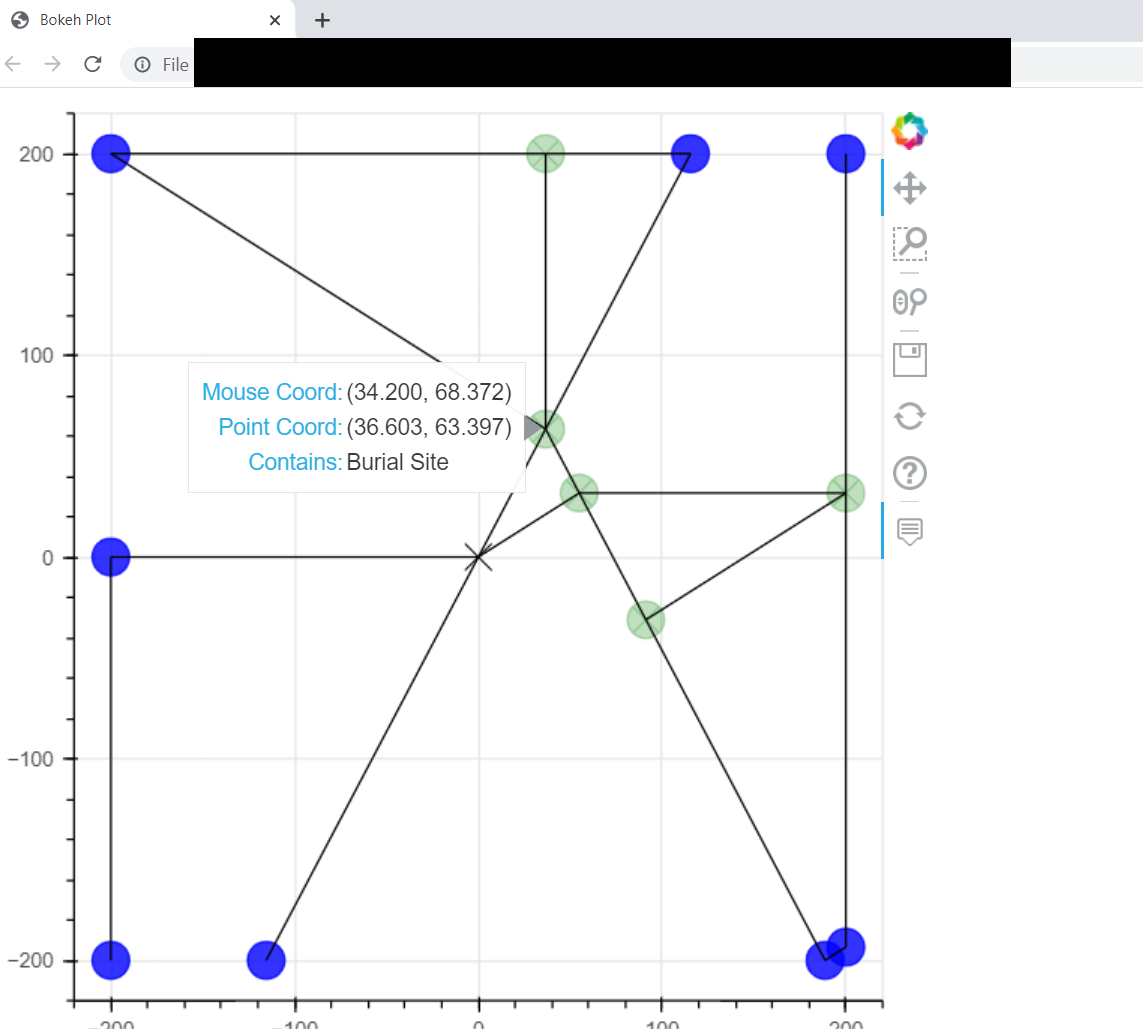
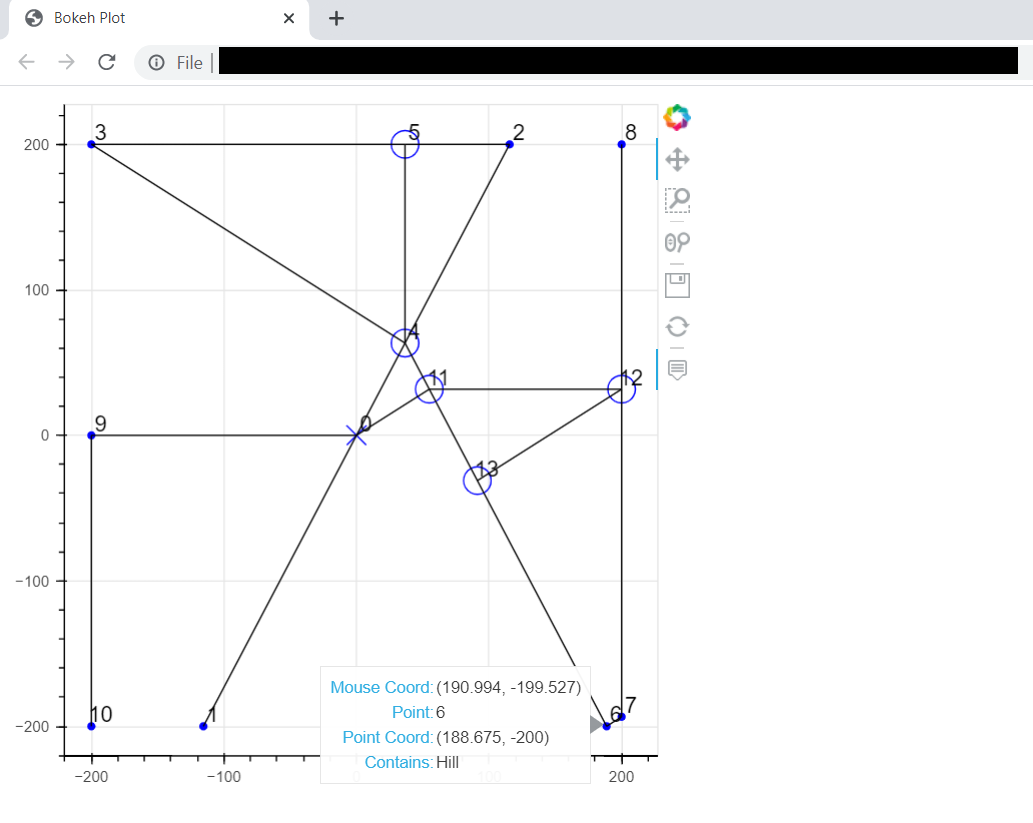
Bokeh Updates

diff --git a/dodman.html b/dodman.html
@@ -632,14 +632,14 @@
           
           
             
-              <div class="bk-root" id="40c20497-5f15-4a16-af1b-636875379bb5" data-root-id="1002"></div>
+              <div class="bk-root" id="97f7be06-1d06-4231-8511-56fcda432627" data-root-id="4930"></div>
             
           
         
       
       
-        <script type="application/json" id="1228">
-          {"8ea5ce9b-f5c2-4c90-a379-6df4f6e53931":{"defs":[{"extends":null,"module":null,"name":"DataModel","overrides":[],"properties":[]}],"roots":{"references":[{"attributes":{"data_source":{"id":"1041"},"glyph":{"id":"1043"},"hover_glyph":null,"muted_glyph":null,"nonselection_glyph":{"id":"1044"},"view":{"id":"1046"}},"id":"1045","type":"GlyphRenderer"},{"attributes":{"data_source":{"id":"1047"},"glyph":{"id":"1049"},"hover_glyph":null,"muted_glyph":null,"nonselection_glyph":{"id":"1050"},"view":{"id":"1052"}},"id":"1051","type":"GlyphRenderer"},{"attributes":{"data":{"desc":["Burial Site","Unique Hazard","Burial Site","Site of Corruption","Site of Corruption"],"x":[36.60254037844385,36.60254037844385,54.903810567665694,200.0,91.17785792574917],"y":[63.39745962155598,200.0,31.698729810778,31.698729810778,-31.129763209582368]},"selected":{"id":"1068"},"selection_policy":{"id":"1069"}},"id":"1041","type":"ColumnDataSource"},{"attributes":{},"id":"1058","type":"Title"},{"attributes":{"source":{"id":"1035"}},"id":"1040","type":"CDSView"},{"attributes":{},"id":"1066","type":"Selection"},{"attributes":{},"id":"1060","type":"BasicTickFormatter"},{"attributes":{"fill_color":{"value":"black"},"marker":{"value":"x"},"size":{"value":20},"x":{"field":"x"},"y":{"field":"y"}},"id":"1049","type":"Scatter"},{"attributes":{"below":[{"id":"1011"}],"center":[{"id":"1014"},{"id":"1018"}],"height":500,"left":[{"id":"1015"}],"renderers":[{"id":"1039"},{"id":"1045"},{"id":"1051"},{"id":"1056"}],"title":{"id":"1058"},"toolbar":{"id":"1027"},"width":500,"x_range":{"id":"1003"},"x_scale":{"id":"1007"},"y_range":{"id":"1005"},"y_scale":{"id":"1009"}},"id":"1002","subtype":"Figure","type":"Plot"},{"attributes":{},"id":"1071","type":"UnionRenderers"},{"attributes":{"data":{"desc":["Site of Imprisonment","Depression","Depression","Hill","Cursed Building","Valley","Hill","Impassable Expanse"],"x":[-115.47005383792528,115.4700538379252,-200.0,188.6751345948125,200.0,200.0,-200.0,-200.0],"y":[-200.0,200.0,200.0,-200.0,-193.46158590977876,200.0,0.0,-200.0]},"selected":{"id":"1066"},"selection_policy":{"id":"1067"}},"id":"1035","type":"ColumnDataSource"},{"attributes":{"source":{"id":"1047"}},"id":"1052","type":"CDSView"},{"attributes":{},"id":"1067","type":"UnionRenderers"},{"attributes":{"source":{"id":"1053"}},"id":"1057","type":"CDSView"},{"attributes":{"bottom_units":"screen","fill_alpha":0.5,"fill_color":"lightgrey","left_units":"screen","level":"overlay","line_alpha":1.0,"line_color":"black","line_dash":[4,4],"line_width":2,"right_units":"screen","syncable":false,"top_units":"screen"},"id":"1025","type":"BoxAnnotation"},{"attributes":{"active_multi":null,"tools":[{"id":"1019"},{"id":"1020"},{"id":"1021"},{"id":"1022"},{"id":"1023"},{"id":"1024"},{"id":"1026"}]},"id":"1027","type":"Toolbar"},{"attributes":{},"id":"1007","type":"LinearScale"},{"attributes":{},"id":"1063","type":"BasicTickFormatter"},{"attributes":{"fill_alpha":{"value":0.1},"fill_color":{"value":"black"},"line_alpha":{"value":0.1},"marker":{"value":"x"},"size":{"value":20},"x":{"field":"x"},"y":{"field":"y"}},"id":"1050","type":"Scatter"},{"attributes":{},"id":"1005","type":"DataRange1d"},{"attributes":{},"id":"1019","type":"PanTool"},{"attributes":{},"id":"1023","type":"ResetTool"},{"attributes":{},"id":"1062","type":"AllLabels"},{"attributes":{},"id":"1020","type":"WheelZoomTool"},{"attributes":{"overlay":{"id":"1025"}},"id":"1021","type":"BoxZoomTool"},{"attributes":{"callback":null,"tooltips":[["Mouse Coord","($x, $y)"],["Point Coord","(@x, @y)"],["Contains","@desc"]]},"id":"1026","type":"HoverTool"},{"attributes":{},"id":"1069","type":"UnionRenderers"},{"attributes":{},"id":"1073","type":"UnionRenderers"},{"attributes":{},"id":"1022","type":"SaveTool"},{"attributes":{"formatter":{"id":"1060"},"major_label_policy":{"id":"1062"},"ticker":{"id":"1012"}},"id":"1011","type":"LinearAxis"},{"attributes":{},"id":"1065","type":"AllLabels"},{"attributes":{"data":{"desc":["Start"],"x":[0.0],"y":[0.0]},"selected":{"id":"1070"},"selection_policy":{"id":"1071"}},"id":"1047","type":"ColumnDataSource"},{"attributes":{"data":{"xs":[[0.0,-115.47005383792528],[0.0,36.60254037844385],[115.4700538379252,36.60254037844385],[36.60254037844385,115.4700538379252],[-200.0,36.60254037844385],[36.60254037844385,-200.0],[36.60254037844385,36.60254037844385],[36.60254037844385,54.903810567665694],[188.6751345948125,200.0],[200.0,200.0],[0.0,-200.0],[-200.0,-200.0],[54.903810567665694,91.17785792574917],[0.0,54.903810567665694],[200.0,200.0],[54.903810567665694,200.0],[91.17785792574917,188.6751345948125],[200.0,91.17785792574917]],"ys":[[0.0,-200.0],[0.0,63.39745962155598],[200.0,200.0],[63.39745962155598,200.0],[200.0,63.39745962155598],[200.0,200.0],[63.39745962155598,200.0],[63.39745962155598,31.698729810778],[-200.0,-193.46158590977876],[-193.46158590977876,31.698729810778],[0.0,0.0],[0.0,-200.0],[31.698729810778,-31.129763209582368],[0.0,31.698729810778],[31.698729810778,200.0],[31.698729810778,31.698729810778],[-31.129763209582368,-200.0],[31.698729810778,-31.129763209582368]]},"selected":{"id":"1072"},"selection_policy":{"id":"1073"}},"id":"1053","type":"ColumnDataSource"},{"attributes":{},"id":"1024","type":"HelpTool"},{"attributes":{},"id":"1009","type":"LinearScale"},{"attributes":{},"id":"1070","type":"Selection"},{"attributes":{},"id":"1012","type":"BasicTicker"},{"attributes":{"source":{"id":"1041"}},"id":"1046","type":"CDSView"},{"attributes":{"fill_alpha":{"value":0.25},"fill_color":{"value":"green"},"line_alpha":{"value":0.25},"line_color":{"value":"green"},"marker":{"value":"circle_x"},"size":{"value":20},"x":{"field":"x"},"y":{"field":"y"}},"id":"1043","type":"Scatter"},{"attributes":{},"id":"1068","type":"Selection"},{"attributes":{},"id":"1072","type":"Selection"},{"attributes":{},"id":"1003","type":"DataRange1d"},{"attributes":{"xs":{"field":"xs"},"ys":{"field":"ys"}},"id":"1054","type":"MultiLine"},{"attributes":{"axis":{"id":"1011"},"ticker":null},"id":"1014","type":"Grid"},{"attributes":{"formatter":{"id":"1063"},"major_label_policy":{"id":"1065"},"ticker":{"id":"1016"}},"id":"1015","type":"LinearAxis"},{"attributes":{"fill_alpha":{"value":0.8},"fill_color":{"value":"blue"},"line_alpha":{"value":0.8},"line_color":{"value":"blue"},"size":{"value":20},"x":{"field":"x"},"y":{"field":"y"}},"id":"1037","type":"Circle"},{"attributes":{"fill_alpha":{"value":0.1},"fill_color":{"value":"green"},"line_alpha":{"value":0.1},"line_color":{"value":"green"},"marker":{"value":"circle_x"},"size":{"value":20},"x":{"field":"x"},"y":{"field":"y"}},"id":"1044","type":"Scatter"},{"attributes":{"line_alpha":{"value":0.1},"xs":{"field":"xs"},"ys":{"field":"ys"}},"id":"1055","type":"MultiLine"},{"attributes":{},"id":"1016","type":"BasicTicker"},{"attributes":{"axis":{"id":"1015"},"dimension":1,"ticker":null},"id":"1018","type":"Grid"},{"attributes":{"data_source":{"id":"1053"},"glyph":{"id":"1054"},"hover_glyph":null,"muted_glyph":null,"nonselection_glyph":{"id":"1055"},"view":{"id":"1057"}},"id":"1056","type":"GlyphRenderer"},{"attributes":{"fill_alpha":{"value":0.1},"fill_color":{"value":"blue"},"line_alpha":{"value":0.1},"line_color":{"value":"blue"},"size":{"value":20},"x":{"field":"x"},"y":{"field":"y"}},"id":"1038","type":"Circle"},{"attributes":{"data_source":{"id":"1035"},"glyph":{"id":"1037"},"hover_glyph":null,"muted_glyph":null,"nonselection_glyph":{"id":"1038"},"view":{"id":"1040"}},"id":"1039","type":"GlyphRenderer"}],"root_ids":["1002"]},"title":"Bokeh Application","version":"2.3.0"}}
+        <script type="application/json" id="5228">
+          {"0725f36e-46de-4014-ad89-2d2ecc8c2931":{"defs":[{"extends":null,"module":null,"name":"DataModel","overrides":[],"properties":[]}],"roots":{"references":[{"attributes":{},"id":"4940","type":"BasicTicker"},{"attributes":{"text_align":{"value":"center"},"text_alpha":{"value":0.1},"text_baseline":{"value":"middle"},"text_color":{"value":"black"},"x":{"field":"x"},"y":{"field":"y"}},"id":"4968","type":"Text"},{"attributes":{},"id":"5006","type":"Selection"},{"attributes":{},"id":"5012","type":"Selection"},{"attributes":{"data_source":{"id":"4971"},"glyph":{"id":"4973"},"hover_glyph":null,"muted_glyph":null,"name":"intersection_point","nonselection_glyph":{"id":"4974"},"view":{"id":"4976"}},"id":"4975","type":"GlyphRenderer"},{"attributes":{"source":{"id":"4977"}},"id":"4981","type":"CDSView"},{"attributes":{},"id":"5019","type":"UnionRenderers"},{"attributes":{"fill_alpha":{"value":0.1},"fill_color":{"value":"blue"},"line_alpha":{"value":0.1},"line_color":{"value":"blue"},"marker":{"value":"x"},"size":{"value":20},"x":{"field":"x"},"y":{"field":"y"}},"id":"4985","type":"Scatter"},{"attributes":{},"id":"5011","type":"UnionRenderers"},{"attributes":{},"id":"4951","type":"ResetTool"},{"attributes":{},"id":"4944","type":"BasicTicker"},{"attributes":{},"id":"5014","type":"Selection"},{"attributes":{},"id":"5000","type":"BasicTickFormatter"},{"attributes":{"source":{"id":"4966"}},"id":"4970","type":"CDSView"},{"attributes":{},"id":"4937","type":"LinearScale"},{"attributes":{},"id":"5002","type":"AllLabels"},{"attributes":{"formatter":{"id":"5003"},"major_label_policy":{"id":"5005"},"ticker":{"id":"4944"}},"id":"4943","type":"LinearAxis"},{"attributes":{},"id":"4998","type":"Title"},{"attributes":{"below":[{"id":"4939"}],"center":[{"id":"4942"},{"id":"4946"}],"height":500,"left":[{"id":"4943"}],"renderers":[{"id":"4964"},{"id":"4969"},{"id":"4975"},{"id":"4980"},{"id":"4986"},{"id":"4991"},{"id":"4996"}],"title":{"id":"4998"},"toolbar":{"id":"4953"},"width":500,"x_range":{"id":"4931"},"x_scale":{"id":"4935"},"y_range":{"id":"4933"},"y_scale":{"id":"4937"}},"id":"4930","subtype":"Figure","type":"Plot"},{"attributes":{"source":{"id":"4971"}},"id":"4976","type":"CDSView"},{"attributes":{"data_source":{"id":"4960"},"glyph":{"id":"4962"},"hover_glyph":null,"muted_glyph":null,"name":"node_n_termini_point","nonselection_glyph":{"id":"4963"},"view":{"id":"4965"}},"id":"4964","type":"GlyphRenderer"},{"attributes":{},"id":"5008","type":"Selection"},{"attributes":{"data_source":{"id":"4993"},"glyph":{"id":"4994"},"hover_glyph":null,"muted_glyph":null,"nonselection_glyph":{"id":"4995"},"view":{"id":"4997"}},"id":"4996","type":"GlyphRenderer"},{"attributes":{"fill_color":{"value":"blue"},"line_color":{"value":"blue"},"marker":{"value":"x"},"size":{"value":20},"x":{"field":"x"},"y":{"field":"y"}},"id":"4984","type":"Scatter"},{"attributes":{"callback":null,"names":["node_n_termini_point","intersection_point","start_point"],"tooltips":[["Mouse Coord","($x, $y)"],["Point","@point_no"],["Point Coord","(@x, @y)"],["Contains","@desc"]]},"id":"4929","type":"HoverTool"},{"attributes":{},"id":"4950","type":"SaveTool"},{"attributes":{"data_source":{"id":"4977"},"glyph":{"id":"4978"},"hover_glyph":null,"muted_glyph":null,"nonselection_glyph":{"id":"4979"},"view":{"id":"4981"}},"id":"4980","type":"GlyphRenderer"},{"attributes":{"fill_alpha":{"value":0},"fill_color":{"value":"blue"},"line_color":{"value":"blue"},"size":{"value":20},"x":{"field":"x"},"y":{"field":"y"}},"id":"4973","type":"Circle"},{"attributes":{"data_source":{"id":"4982"},"glyph":{"id":"4984"},"hover_glyph":null,"muted_glyph":null,"name":"start_point","nonselection_glyph":{"id":"4985"},"view":{"id":"4987"}},"id":"4986","type":"GlyphRenderer"},{"attributes":{},"id":"5003","type":"BasicTickFormatter"},{"attributes":{},"id":"5015","type":"UnionRenderers"},{"attributes":{},"id":"5005","type":"AllLabels"},{"attributes":{},"id":"4935","type":"LinearScale"},{"attributes":{"fill_alpha":{"value":0.1},"fill_color":{"value":"blue"},"line_alpha":{"value":0.1},"line_color":{"value":"blue"},"size":{"value":20},"x":{"field":"x"},"y":{"field":"y"}},"id":"4974","type":"Circle"},{"attributes":{"data":{"text":["0"],"x":[7.0],"y":[7.0]},"selected":{"id":"5016"},"selection_policy":{"id":"5017"}},"id":"4988","type":"ColumnDataSource"},{"attributes":{"formatter":{"id":"5000"},"major_label_policy":{"id":"5002"},"ticker":{"id":"4940"}},"id":"4939","type":"LinearAxis"},{"attributes":{"fill_color":{"value":"blue"},"line_color":{"value":"blue"},"size":{"value":5},"x":{"field":"x"},"y":{"field":"y"}},"id":"4962","type":"Circle"},{"attributes":{"text_align":{"value":"center"},"text_baseline":{"value":"middle"},"text_color":{"value":"black"},"x":{"field":"x"},"y":{"field":"y"}},"id":"4989","type":"Text"},{"attributes":{},"id":"5010","type":"Selection"},{"attributes":{"text_align":{"value":"center"},"text_baseline":{"value":"middle"},"text_color":{"value":"black"},"x":{"field":"x"},"y":{"field":"y"}},"id":"4967","type":"Text"},{"attributes":{"text_align":{"value":"center"},"text_alpha":{"value":0.1},"text_baseline":{"value":"middle"},"text_color":{"value":"black"},"x":{"field":"x"},"y":{"field":"y"}},"id":"4979","type":"Text"},{"attributes":{"source":{"id":"4988"}},"id":"4992","type":"CDSView"},{"attributes":{},"id":"4947","type":"PanTool"},{"attributes":{"active_multi":null,"tools":[{"id":"4929"},{"id":"4947"},{"id":"4948"},{"id":"4949"},{"id":"4950"},{"id":"4951"}]},"id":"4953","type":"Toolbar"},{"attributes":{"overlay":{"id":"4952"}},"id":"4948","type":"BoxZoomTool"},{"attributes":{"data":{"text":["4","5","11","12","13"],"x":[43.60254037844385,43.60254037844385,61.903810567665694,207.0,98.17785792574917],"y":[70.39745962155598,207.0,38.698729810778005,38.698729810778005,-24.129763209582368]},"selected":{"id":"5012"},"selection_policy":{"id":"5013"}},"id":"4977","type":"ColumnDataSource"},{"attributes":{"source":{"id":"4960"}},"id":"4965","type":"CDSView"},{"attributes":{"source":{"id":"4993"}},"id":"4997","type":"CDSView"},{"attributes":{},"id":"5017","type":"UnionRenderers"},{"attributes":{"fill_alpha":{"value":0.1},"fill_color":{"value":"blue"},"line_alpha":{"value":0.1},"line_color":{"value":"blue"},"size":{"value":5},"x":{"field":"x"},"y":{"field":"y"}},"id":"4963","type":"Circle"},{"attributes":{},"id":"4933","type":"DataRange1d"},{"attributes":{"data_source":{"id":"4966"},"glyph":{"id":"4967"},"hover_glyph":null,"muted_glyph":null,"nonselection_glyph":{"id":"4968"},"view":{"id":"4970"}},"id":"4969","type":"GlyphRenderer"},{"attributes":{"text_align":{"value":"center"},"text_alpha":{"value":0.1},"text_baseline":{"value":"middle"},"text_color":{"value":"black"},"x":{"field":"x"},"y":{"field":"y"}},"id":"4990","type":"Text"},{"attributes":{"data":{"desc":["Site of Imprisonment","Depression","Depression","Hill","Cursed Building","Valley","Hill","Impassable Expanse"],"point_no":[1,2,3,6,7,8,9,10],"x":[-115.47005383792528,115.4700538379252,-200.0,188.6751345948125,200.0,200.0,-200.0,-200.0],"y":[-200.0,200.0,200.0,-200.0,-193.46158590977876,200.0,0.0,-200.0]},"selected":{"id":"5006"},"selection_policy":{"id":"5007"}},"id":"4960","type":"ColumnDataSource"},{"attributes":{"axis":{"id":"4943"},"dimension":1,"ticker":null},"id":"4946","type":"Grid"},{"attributes":{},"id":"5013","type":"UnionRenderers"},{"attributes":{},"id":"4931","type":"DataRange1d"},{"attributes":{},"id":"5016","type":"Selection"},{"attributes":{"axis":{"id":"4939"},"ticker":null},"id":"4942","type":"Grid"},{"attributes":{"data":{"text":["1","2","3","6","7","8","9","10"],"x":[-108.47005383792528,122.4700538379252,-193.0,195.6751345948125,207.0,207.0,-193.0,-193.0],"y":[-193.0,207.0,207.0,-193.0,-186.46158590977876,207.0,7.0,-193.0]},"selected":{"id":"5008"},"selection_policy":{"id":"5009"}},"id":"4966","type":"ColumnDataSource"},{"attributes":{"data":{"xs":[[0.0,-115.47005383792528],[0.0,36.60254037844385],[115.4700538379252,36.60254037844385],[36.60254037844385,115.4700538379252],[-200.0,36.60254037844385],[36.60254037844385,-200.0],[36.60254037844385,36.60254037844385],[36.60254037844385,54.903810567665694],[188.6751345948125,200.0],[200.0,200.0],[0.0,-200.0],[-200.0,-200.0],[54.903810567665694,91.17785792574917],[0.0,54.903810567665694],[200.0,200.0],[54.903810567665694,200.0],[91.17785792574917,188.6751345948125],[200.0,91.17785792574917]],"ys":[[0.0,-200.0],[0.0,63.39745962155598],[200.0,200.0],[63.39745962155598,200.0],[200.0,63.39745962155598],[200.0,200.0],[63.39745962155598,200.0],[63.39745962155598,31.698729810778],[-200.0,-193.46158590977876],[-193.46158590977876,31.698729810778],[0.0,0.0],[0.0,-200.0],[31.698729810778,-31.129763209582368],[0.0,31.698729810778],[31.698729810778,200.0],[31.698729810778,31.698729810778],[-31.129763209582368,-200.0],[31.698729810778,-31.129763209582368]]},"selected":{"id":"5018"},"selection_policy":{"id":"5019"}},"id":"4993","type":"ColumnDataSource"},{"attributes":{},"id":"4949","type":"WheelZoomTool"},{"attributes":{},"id":"5018","type":"Selection"},{"attributes":{"xs":{"field":"xs"},"ys":{"field":"ys"}},"id":"4994","type":"MultiLine"},{"attributes":{"data":{"desc":["Start"],"point_no":[0],"x":[0.0],"y":[0.0]},"selected":{"id":"5014"},"selection_policy":{"id":"5015"}},"id":"4982","type":"ColumnDataSource"},{"attributes":{"text_align":{"value":"center"},"text_baseline":{"value":"middle"},"text_color":{"value":"black"},"x":{"field":"x"},"y":{"field":"y"}},"id":"4978","type":"Text"},{"attributes":{"data":{"desc":["Burial Site","Unique Hazard","Burial Site","Site of Corruption","Site of Corruption"],"point_no":[4,5,11,12,13],"x":[36.60254037844385,36.60254037844385,54.903810567665694,200.0,91.17785792574917],"y":[63.39745962155598,200.0,31.698729810778,31.698729810778,-31.129763209582368]},"selected":{"id":"5010"},"selection_policy":{"id":"5011"}},"id":"4971","type":"ColumnDataSource"},{"attributes":{},"id":"5007","type":"UnionRenderers"},{"attributes":{"data_source":{"id":"4988"},"glyph":{"id":"4989"},"hover_glyph":null,"muted_glyph":null,"nonselection_glyph":{"id":"4990"},"view":{"id":"4992"}},"id":"4991","type":"GlyphRenderer"},{"attributes":{"source":{"id":"4982"}},"id":"4987","type":"CDSView"},{"attributes":{"line_alpha":{"value":0.1},"xs":{"field":"xs"},"ys":{"field":"ys"}},"id":"4995","type":"MultiLine"},{"attributes":{"bottom_units":"screen","fill_alpha":0.5,"fill_color":"lightgrey","left_units":"screen","level":"overlay","line_alpha":1.0,"line_color":"black","line_dash":[4,4],"line_width":2,"right_units":"screen","syncable":false,"top_units":"screen"},"id":"4952","type":"BoxAnnotation"},{"attributes":{},"id":"5009","type":"UnionRenderers"}],"root_ids":["4930"]},"title":"Bokeh Application","version":"2.3.0"}}
         </script>
         <script type="text/javascript">
           (function() {
@@ -648,8 +648,8 @@
                 (function(root) {
                   function embed_document(root) {
                     
-                  var docs_json = document.getElementById('1228').textContent;
-                  var render_items = [{"docid":"8ea5ce9b-f5c2-4c90-a379-6df4f6e53931","root_ids":["1002"],"roots":{"1002":"40c20497-5f15-4a16-af1b-636875379bb5"}}];
+                  var docs_json = document.getElementById('5228').textContent;
+                  var render_items = [{"docid":"0725f36e-46de-4014-ad89-2d2ecc8c2931","root_ids":["4930"],"roots":{"4930":"97f7be06-1d06-4231-8511-56fcda432627"}}];
                   root.Bokeh.embed.embed_items(docs_json, render_items);
                 
                   }

diff --git a/dodmanbokeh.py b/dodmanbokeh.py
@@ -7,6 +7,7 @@ Created on Fri Aug 27 16:42:32 2021
 
 import pandas as pd
 from bokeh.plotting import figure, output_file, show, ColumnDataSource
+from bokeh.models import HoverTool, LabelSet
 
 
 flip_meaning = pd.read_csv('flip meaning.csv')
@@ -21,9 +22,9 @@ for i in range(len(flip_meaning)):
     flip_dict['Intersection_'+flip_meaning.loc[i,'Label']] = flip_meaning.loc[i,'Intersection']
 
 
-startlists = [[],[],[]]
-otherlists = [[],[],[]]
-intersectlists = [[],[],[]]
+startlists = [[],[],[],[]]
+otherlists = [[],[],[],[]]
+intersectlists = [[],[],[],[]]
 pointdict = {}
 
 for p in range(len(pointds)):
@@ -37,6 +38,7 @@ for p in range(len(pointds)):
         startlists[0].append(pointds.loc[p,'X'])
         startlists[1].append(pointds.loc[p,'Y'])
         startlists[2].append("Start")
+        startlists[3].append(pointds.loc[p,'Point Index'])
         pointdict[pointds.loc[p,'Point Index']]['Location'] = 'Start'
     else:
         pointdict[pointds.loc[p,'Point Index']]['Location'] = flip_dict[lockey + "_" + flips]
@@ -44,10 +46,12 @@ for p in range(len(pointds)):
             intersectlists[0].append(pointds.loc[p,'X'])
             intersectlists[1].append(pointds.loc[p,'Y'])
             intersectlists[2].append(pointdict[pointds.loc[p,'Point Index']]['Location'])
+            intersectlists[3].append(pointds.loc[p,'Point Index'])
         else:
             otherlists[0].append(pointds.loc[p,'X'])
             otherlists[1].append(pointds.loc[p,'Y'])
             otherlists[2].append(pointdict[pointds.loc[p,'Point Index']]['Location'])
+            otherlists[3].append(pointds.loc[p,'Point Index'])
         
 
 linelists = [[],[]]
@@ -60,33 +64,65 @@ for l in range(len(pathds)):
 
 output_file('dodman.html',mode='inline')
 
-TOOLTIPS = [
+point_tooltip = [
         ("Mouse Coord","($x, $y)"),
+        ("Point","@point_no"),
         ("Point Coord","(@x, @y)"),
         ("Contains","@desc")
     ]
 
-p = figure(plot_width = 500,plot_height=500,tooltips=TOOLTIPS)
+point_hover = HoverTool(names=['node_n_termini_point','intersection_point','start_point'],
+                        tooltips=point_tooltip)
+
+p = figure(plot_width = 500,plot_height=500,tools=['pan', 'box_zoom', 'wheel_zoom', 'save',
+                                 'reset', point_hover])
+
+# nodes and termini
 pointsource = ColumnDataSource(data = {
         'x':otherlists[0],
         'y':otherlists[1],
-        'desc':otherlists[2]
-    
+        'desc':otherlists[2],
+        'point_no':otherlists[3]
     })
-p.circle('x','y',size=20,color="blue",alpha=0.8,source=pointsource)
+node_term_glyph = p.circle('x','y',size=5,color="blue",alpha=1,source=pointsource,name='node_n_termini_point')
+p.text([a + 7 for a in otherlists[0]],
+       [a + 7 for a in otherlists[1]],
+       text=["%d" % q for q in otherlists[3]],
+       text_baseline="middle",
+       text_align="center")
+
+
+# intersections
 intsource = ColumnDataSource(data = {
         'x':intersectlists[0],
         'y':intersectlists[1],
-        'desc':intersectlists[2]
+        'desc':intersectlists[2],
+        'point_no':intersectlists[3]
     
     })
-p.circle_x('x','y',size=20,color="green",alpha=0.25,source=intsource)
+intersection_glyph = p.circle('x','y',size=20,color="blue",fill_alpha=0,line_alpha=1,source=intsource,name='intersection_point')
+p.text([a + 7 for a in intersectlists[0]],
+       [a + 7 for a in intersectlists[1]],
+       text=["%d" % q for q in intersectlists[3]],
+       text_baseline="middle",
+       text_align="center")
+
+
+# start points
 startsource = ColumnDataSource(data = {
         'x':startlists[0],
         'y':startlists[1],
-        'desc':startlists[2]
+        'desc':startlists[2],
+        'point_no':startlists[3]
     
     })
-p.x('x','y',size=20,color="black",alpha=1,source=startsource)
+start_glyph = p.x('x','y',size=20,color="blue",alpha=1,source=startsource,name='start_point')
+p.text([a + 7 for a in startlists[0]],
+       [a + 7 for a in startlists[1]],
+       text=["%d" % q for q in startlists[3]],
+       text_baseline="middle",
+       text_align="center")
+
+
 p.multi_line(linelists[0],linelists[1],color='black')
 show(p)
